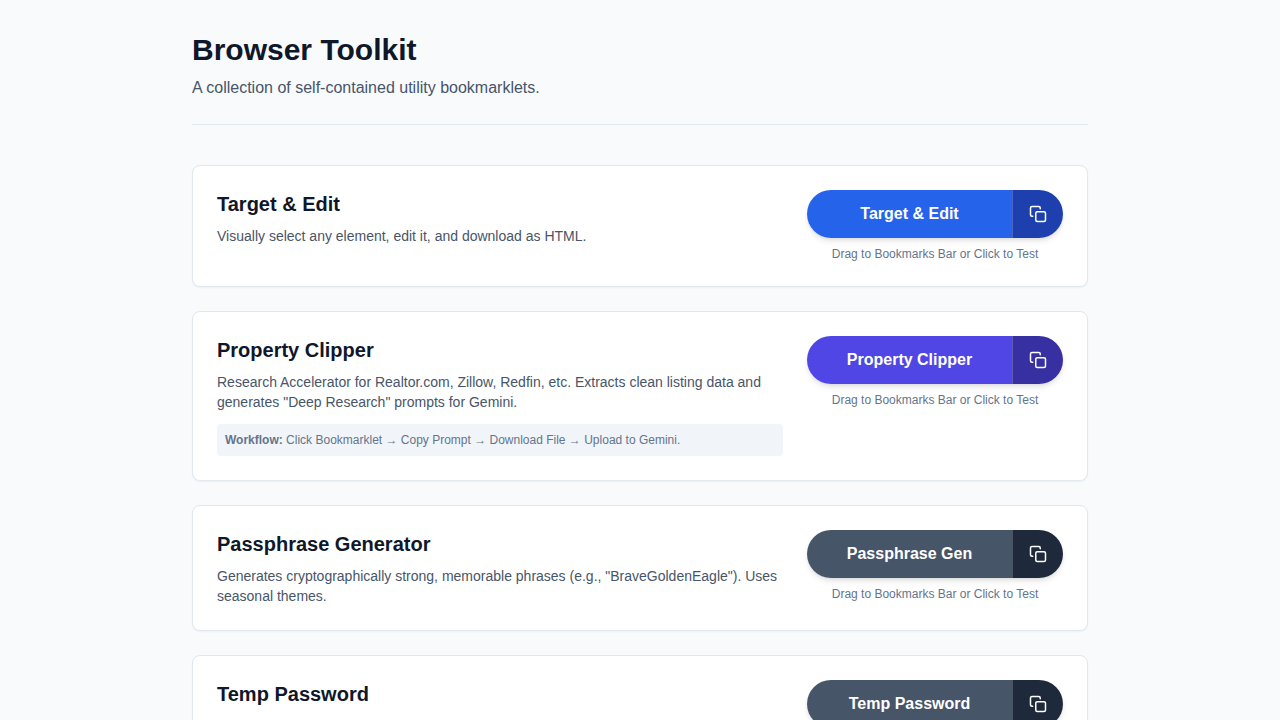
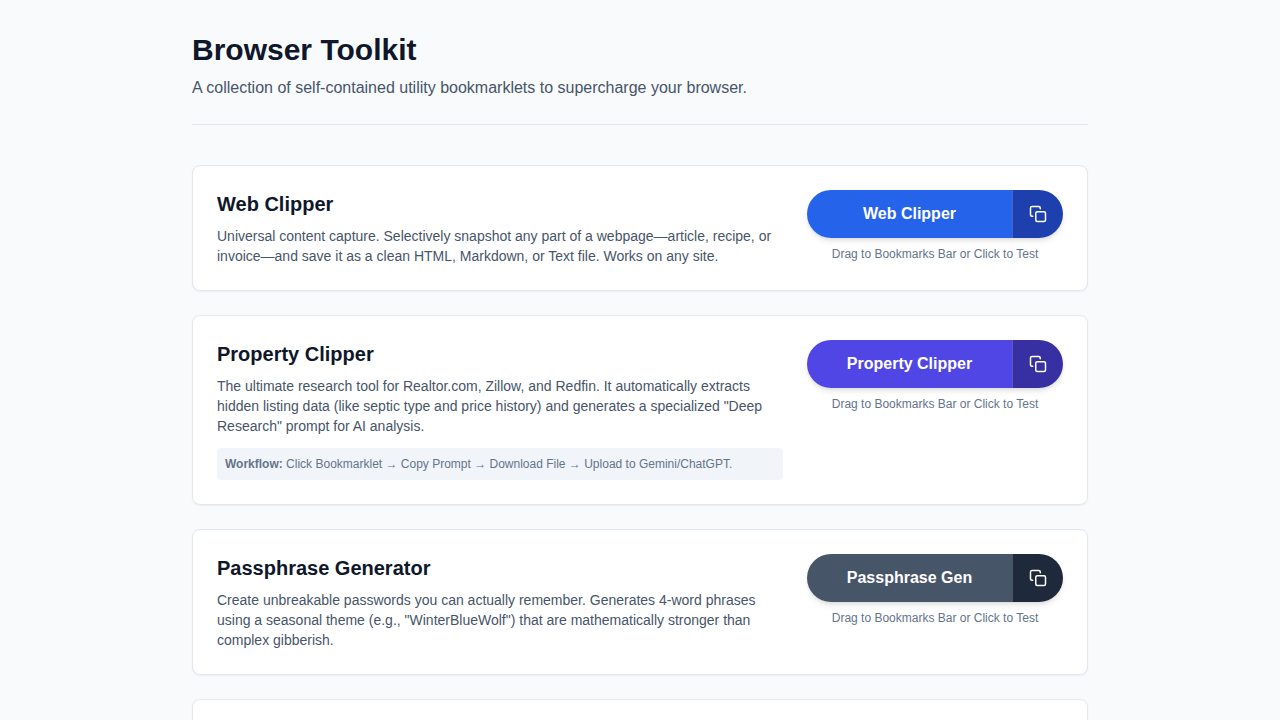
Fix Web Clipper references and button ID in index.html
This change updates the `index.html` to correctly reference the renamed "Web Clipper" bookmarklet (formerly "Target & Edit"). It updates the `load` function call to target the new button ID `btn-web-clipper`.

It also updates the `verify_bookmarklet_generation.js` and `verify_frontend.py` scripts to reflect the file renaming and UI changes, ensuring that the build and verification processes are correct.

Test Plan:
- `node verify_bookmarklet_generation.js` passes.
- `python3 verify_frontend.py` passes (after starting local server).
- Visual verification confirmed the "Web Clipper" button loads correctly.

diff --git a/index.html b/index.html
@@ -244,7 +244,7 @@
         }
 
         // Execute immediately since script is at end of body
-        load('btn-target-edit', 'bookmarklets/web-clipper.js', 'Web Clipper'); // Renamed
+        load('btn-web-clipper', 'bookmarklets/web-clipper.js', 'Web Clipper'); // Renamed
         load('btn-prop-clipper', 'bookmarklets/property-clipper.js', 'Property Clipper');
         load('btn-passphrase', 'bookmarklets/passphrase-generator.js', 'Passphrase Gen');
         load('btn-temp-pass', 'bookmarklets/temp-password.js', 'Temp Password');

diff --git a/verify_bookmarklet_generation.js b/verify_bookmarklet_generation.js
@@ -5,7 +5,7 @@ const { compile } = require('./compile_bookmarklet');
 const files = [
   'bookmarklets/pa-county-finder.js',
   'bookmarklets/passphrase-generator.js',
-  'bookmarklets/target-edit.js',
+  'bookmarklets/web-clipper.js',
   'bookmarklets/temp-password.js',
   'bookmarklets/property-clipper.js',
   'bookmarklets/utils.js'

diff --git a/verify_frontend.py b/verify_frontend.py
@@ -8,11 +8,11 @@ def run(playwright):
 
         # Wait for the bookmarklets to be compiled and loaded
         # The text changes from "Loading..." to the bookmarklet name.
-        # Let's wait for "Target & Edit"
-        page.wait_for_selector("text=Target & Edit", timeout=5000)
+        # Let's wait for "Web Clipper"
+        page.wait_for_selector("text=Web Clipper", timeout=5000)
 
         # Get the href of the button
-        href = page.get_attribute("#btn-target-edit", "href")
+        href = page.get_attribute("#btn-web-clipper", "href")
 
         print(f"Href length: {len(href)}")
         if href.startswith("javascript:"):
